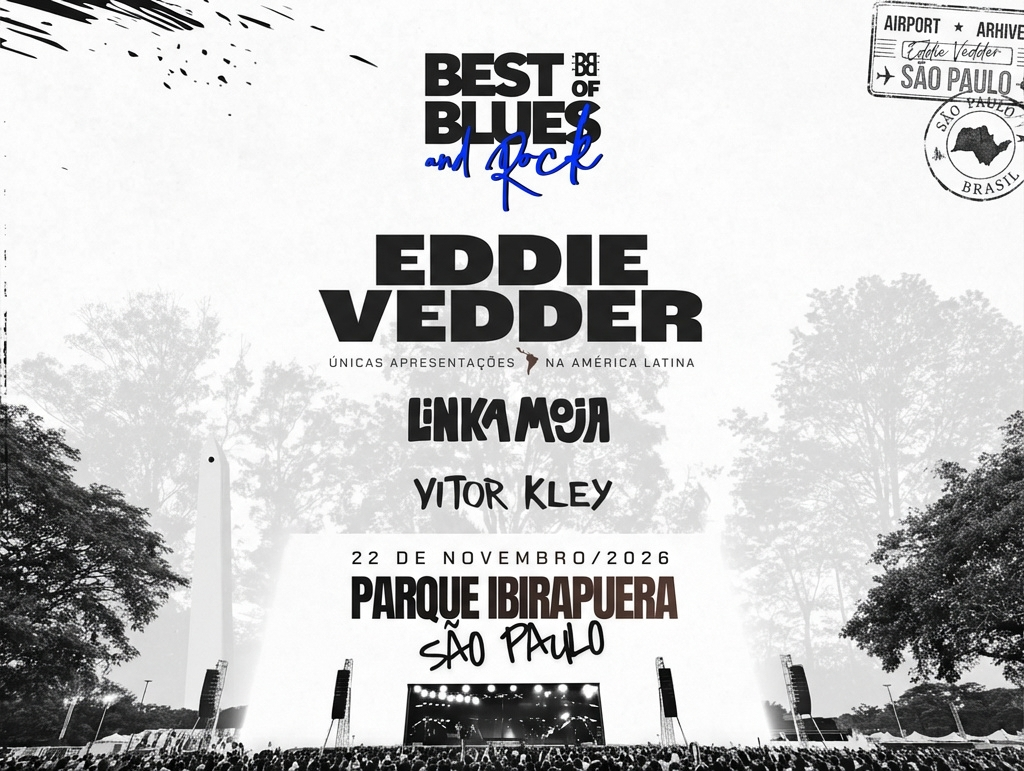
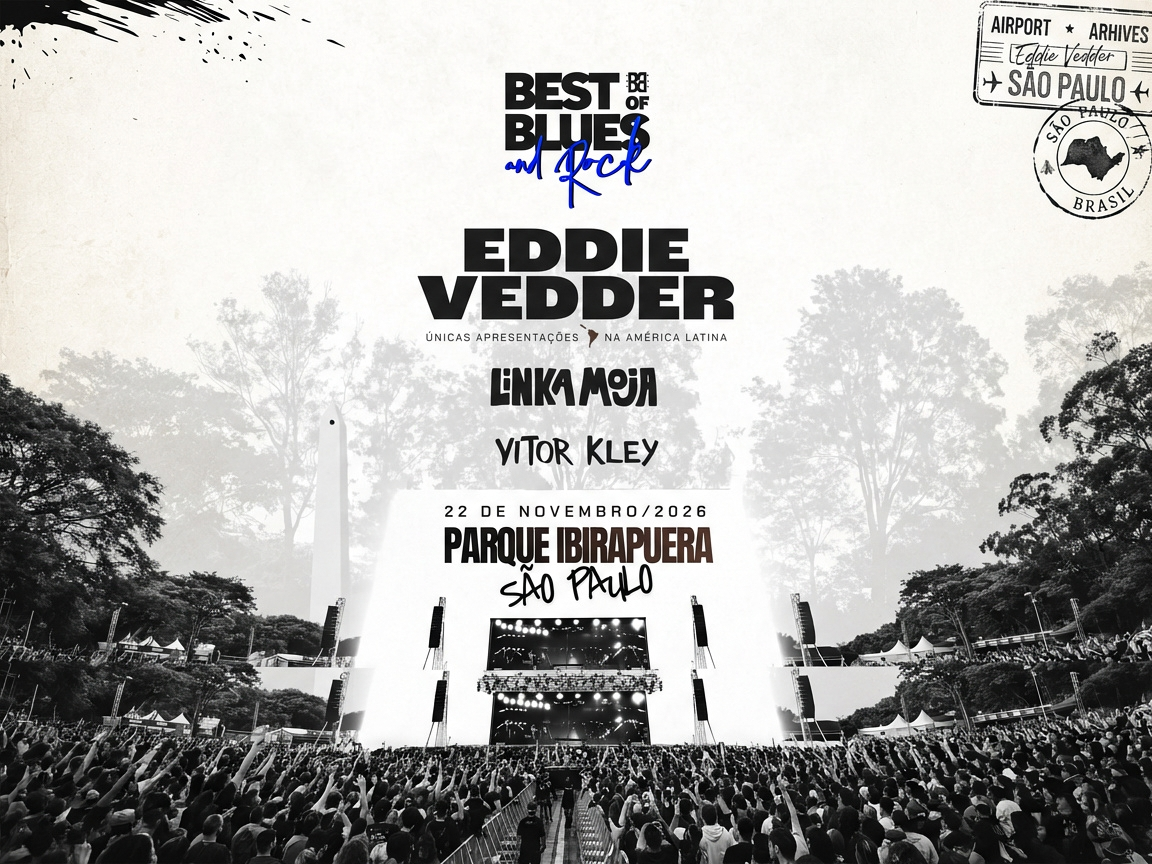
teste

diff --git a/app/(tabs)/tickets.tsx b/app/(tabs)/tickets.tsx
@@ -110,13 +110,14 @@ const rawTickets = [
     abertura: "14:00",
     inicio: "16:00",
     image: require("../../assets/images/new.jpg"),
+    aspectRatio: 1152 / 864,
     eventInfo,
   },
 ];
 
 const tickets: (Ticket & { aspectRatio: number })[] = rawTickets.map((t) => ({
   ...t,
-  aspectRatio: getImageAspectRatio(t.image),
+  aspectRatio: t.aspectRatio ?? getImageAspectRatio(t.image),
 }));
 
 export default function TicketsScreen() {
